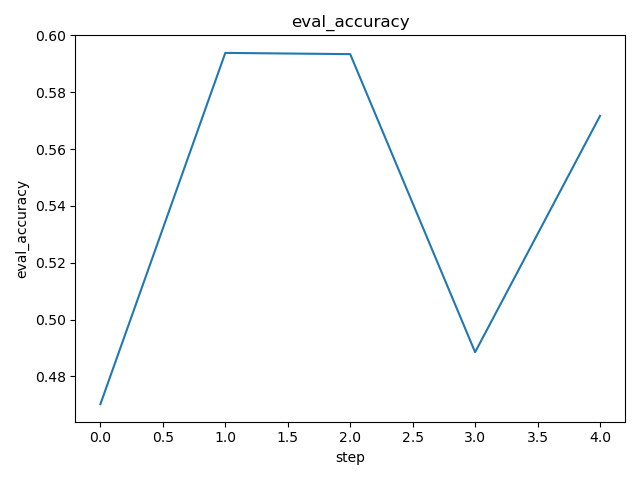
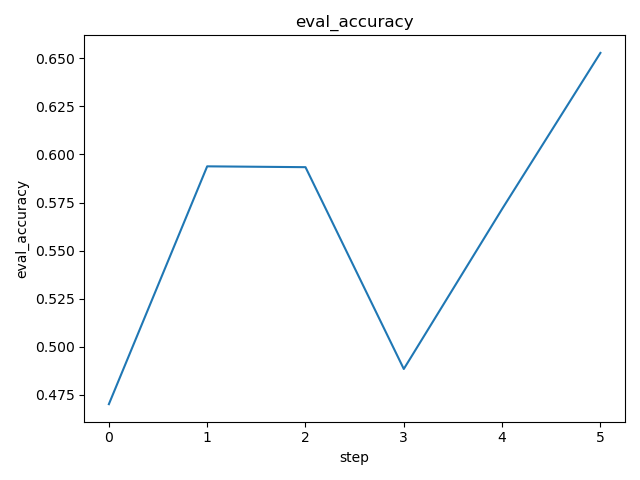
dvc: commit experiment f6852b675ee58c8d90e044407a367a44246aac2445575f1649fc00da5f8ef8c8

diff --git a/data/ogt_protein_classifier/dvclive/report.md b/data/ogt_protein_classifier/dvclive/report.md
@@ -4,7 +4,7 @@ metrics.json
 
 |   loss |   learning_rate |   epoch |   eval_loss |   eval_f1 |   eval_accuracy |   eval_matthew |   eval_runtime |   eval_samples_per_second |   eval_steps_per_second |   step |
 |--------|-----------------|---------|-------------|-----------|-----------------|----------------|----------------|---------------------------|-------------------------|--------|
-| 0.6875 |     3.83333e-05 |     0.5 |    0.672585 |  0.682137 |        0.571668 |       0.275137 |        75.0209 |                   429.267 |                   2.239 |      4 |
+| 0.6552 |     3.58333e-05 |     0.6 |    0.640681 |  0.657854 |        0.652807 |       0.311381 |        75.4162 |                   427.017 |                   2.228 |      5 |
 
 ![static/eval_steps_per_second](static/eval_steps_per_second.png)
 
